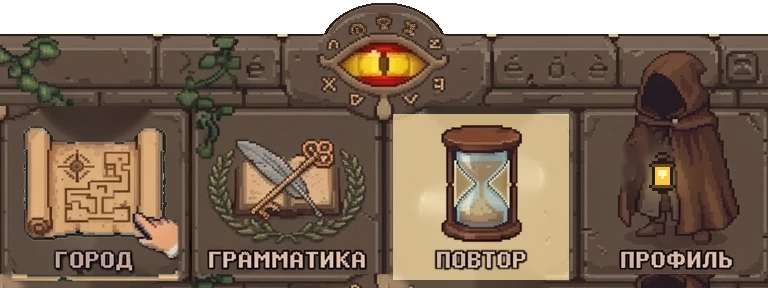
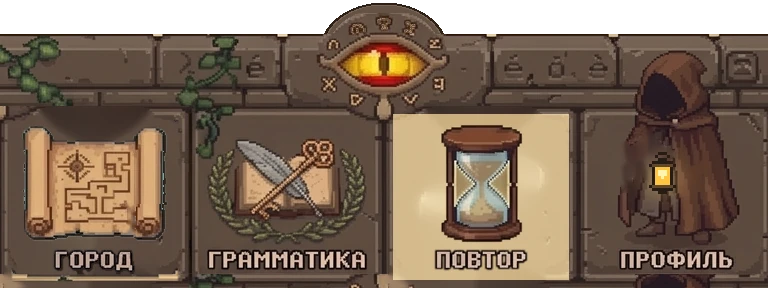
Без руки на свитке и без подсветки нажатия (1.12.2)
Claude-Session: https://claude.ai/code/session_012FoTdB5qAwJN693kz9isgV

Changed region(s): [[0.1562, 0.7188, 0.25, 0.9062]]

diff --git a/src/index.css b/src/index.css
@@ -80,23 +80,11 @@ h1, h2, .font-pixel {
   text-transform: uppercase;
 }
 
-/* Здание на карте: прозрачная кнопка поверх картинки, при нажатии участок подсвечивается. */
-.building::after {
-  content: "";
-  position: absolute;
-  inset: 0;
-  border-radius: inherit;
-  background: rgba(255, 236, 170, 0.28);
-  box-shadow: inset 0 0 0 2px #e0b43c;
-  opacity: 0;
-  transition: opacity 80ms ease-out;
-}
-.building:active::after,
-.building:focus-visible::after {
-  opacity: 1;
-}
+/* Здание на карте: прозрачная кнопка поверх картинки, без подсветки при нажатии.
+   Рамка только при переходе с клавиатуры. */
 .building:focus-visible {
-  outline: none;
+  outline: 2px solid #e0b43c;
+  outline-offset: -2px;
 }
 
 /* Открытое здание: участок из освещённой картинки, края растворяются в основе. */
@@ -142,22 +130,10 @@ h1, h2, .font-pixel {
 .hero-frame-b { animation: hero-b 280ms infinite; }
 .hero-bob { animation: hero-bob 280ms infinite; }
 
-/* Нижнее меню-картинка: при нажатии ячейка подсвечивается. */
-.nav-hit::after {
-  content: "";
-  position: absolute;
-  inset: 4px;
-  border-radius: 6px;
-  background: rgba(255, 236, 170, 0.22);
-  opacity: 0;
-  transition: opacity 80ms ease-out;
-}
-.nav-hit:active::after,
-.nav-hit:focus-visible::after {
-  opacity: 1;
-}
+/* Нижнее меню-картинка: без подсветки при нажатии, рамка только при переходе с клавиатуры. */
 .nav-hit:focus-visible {
-  outline: none;
+  outline: 2px solid #e0b43c;
+  outline-offset: -4px;
 }
 
 /* Диалоговое окно, как в старых RPG. */

diff --git a/src/content/changelog.ts b/src/content/changelog.ts
@@ -7,6 +7,11 @@ export interface Release {
 // Новые версии сверху. Версия первой записи должна совпадать с package.json (проверяется тестом).
 export const CHANGELOG: Release[] = [
   {
+    version: '1.12.2',
+    date: '2026-09-25',
+    notes: ['Убрана рука-указатель со свитка в меню и подсветка при нажатии на разделы и здания.'],
+  },
+  {
     version: '1.12.1',
     date: '2026-09-25',
     notes: [

diff --git a/docs/STAGES.md b/docs/STAGES.md
@@ -294,3 +294,8 @@
 - Герой на карте города — путник в миниатюре 12×16: капюшон, тёмное лицо, коричневый плащ, огонёк фонаря; два кадра шага.
 
 Проверено в браузере: все разделы переключаются, прогулка героя по карте, сценарии города, урока с вводом кнопками и офлайна.
+
+## Версия 1.12.2. Без руки и без подсветки нажатия
+
+- Рука-указатель со свитка «Города» убрана: низ правого валика, который она закрывала, взят зеркально с левого (свиток симметричен), кончик пальца на самой карте закрыт заливкой по соседним пикселям.
+- Подсветки при нажатии на ячейки меню и здания на карте больше нет. Рамка остаётся только при переходе с клавиатуры (focus-visible), на телефоне её не видно.
